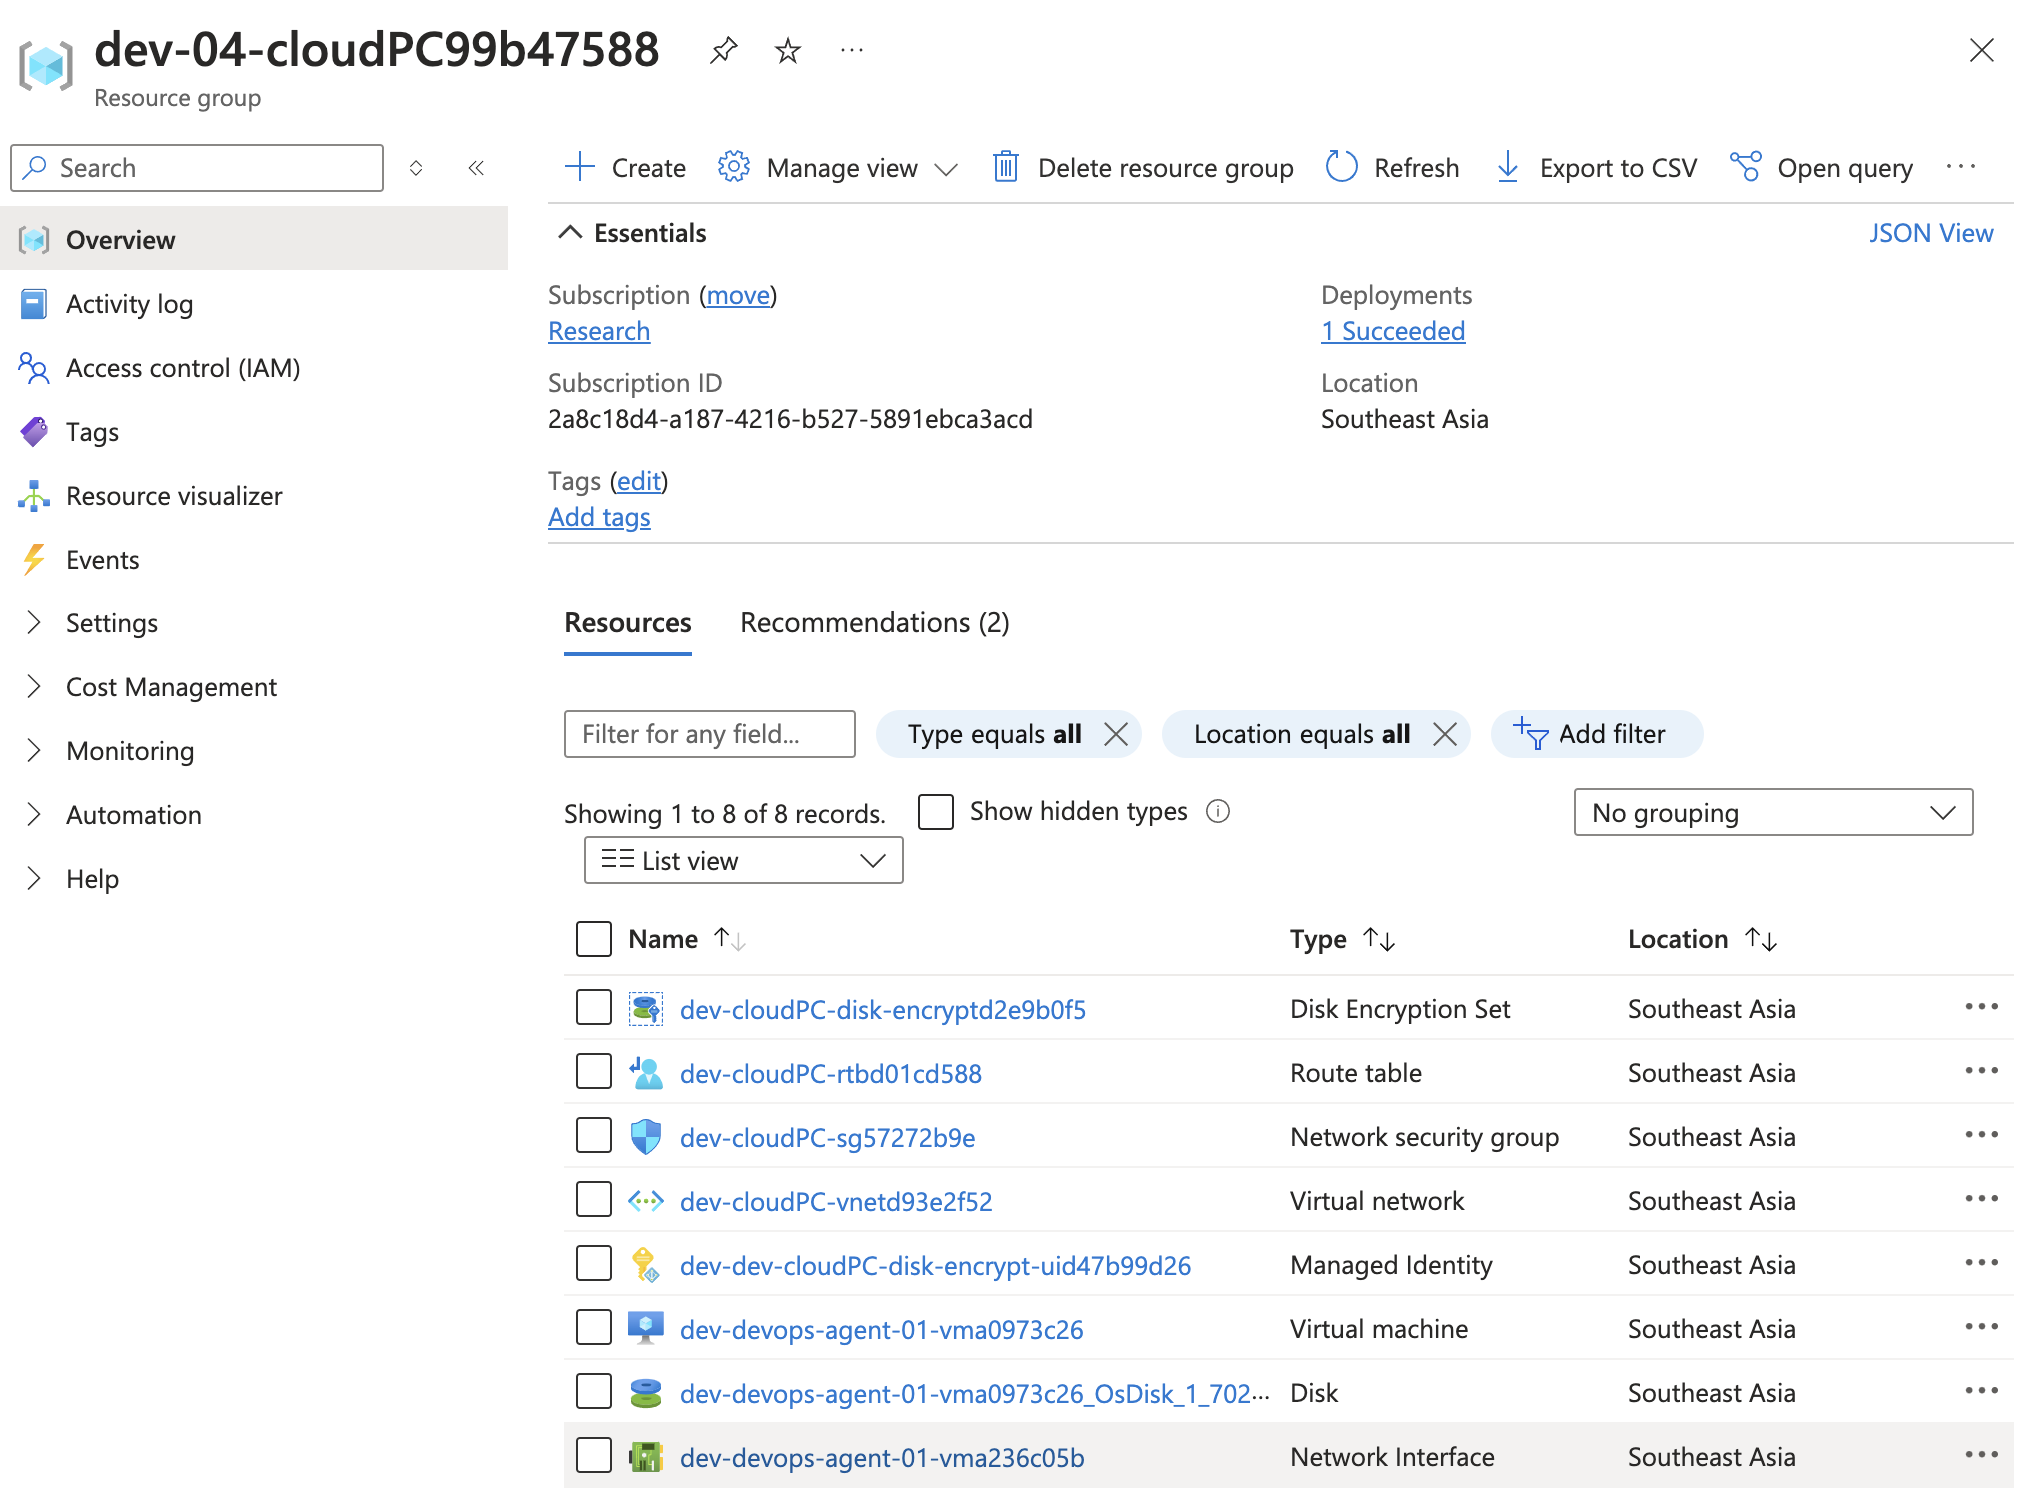
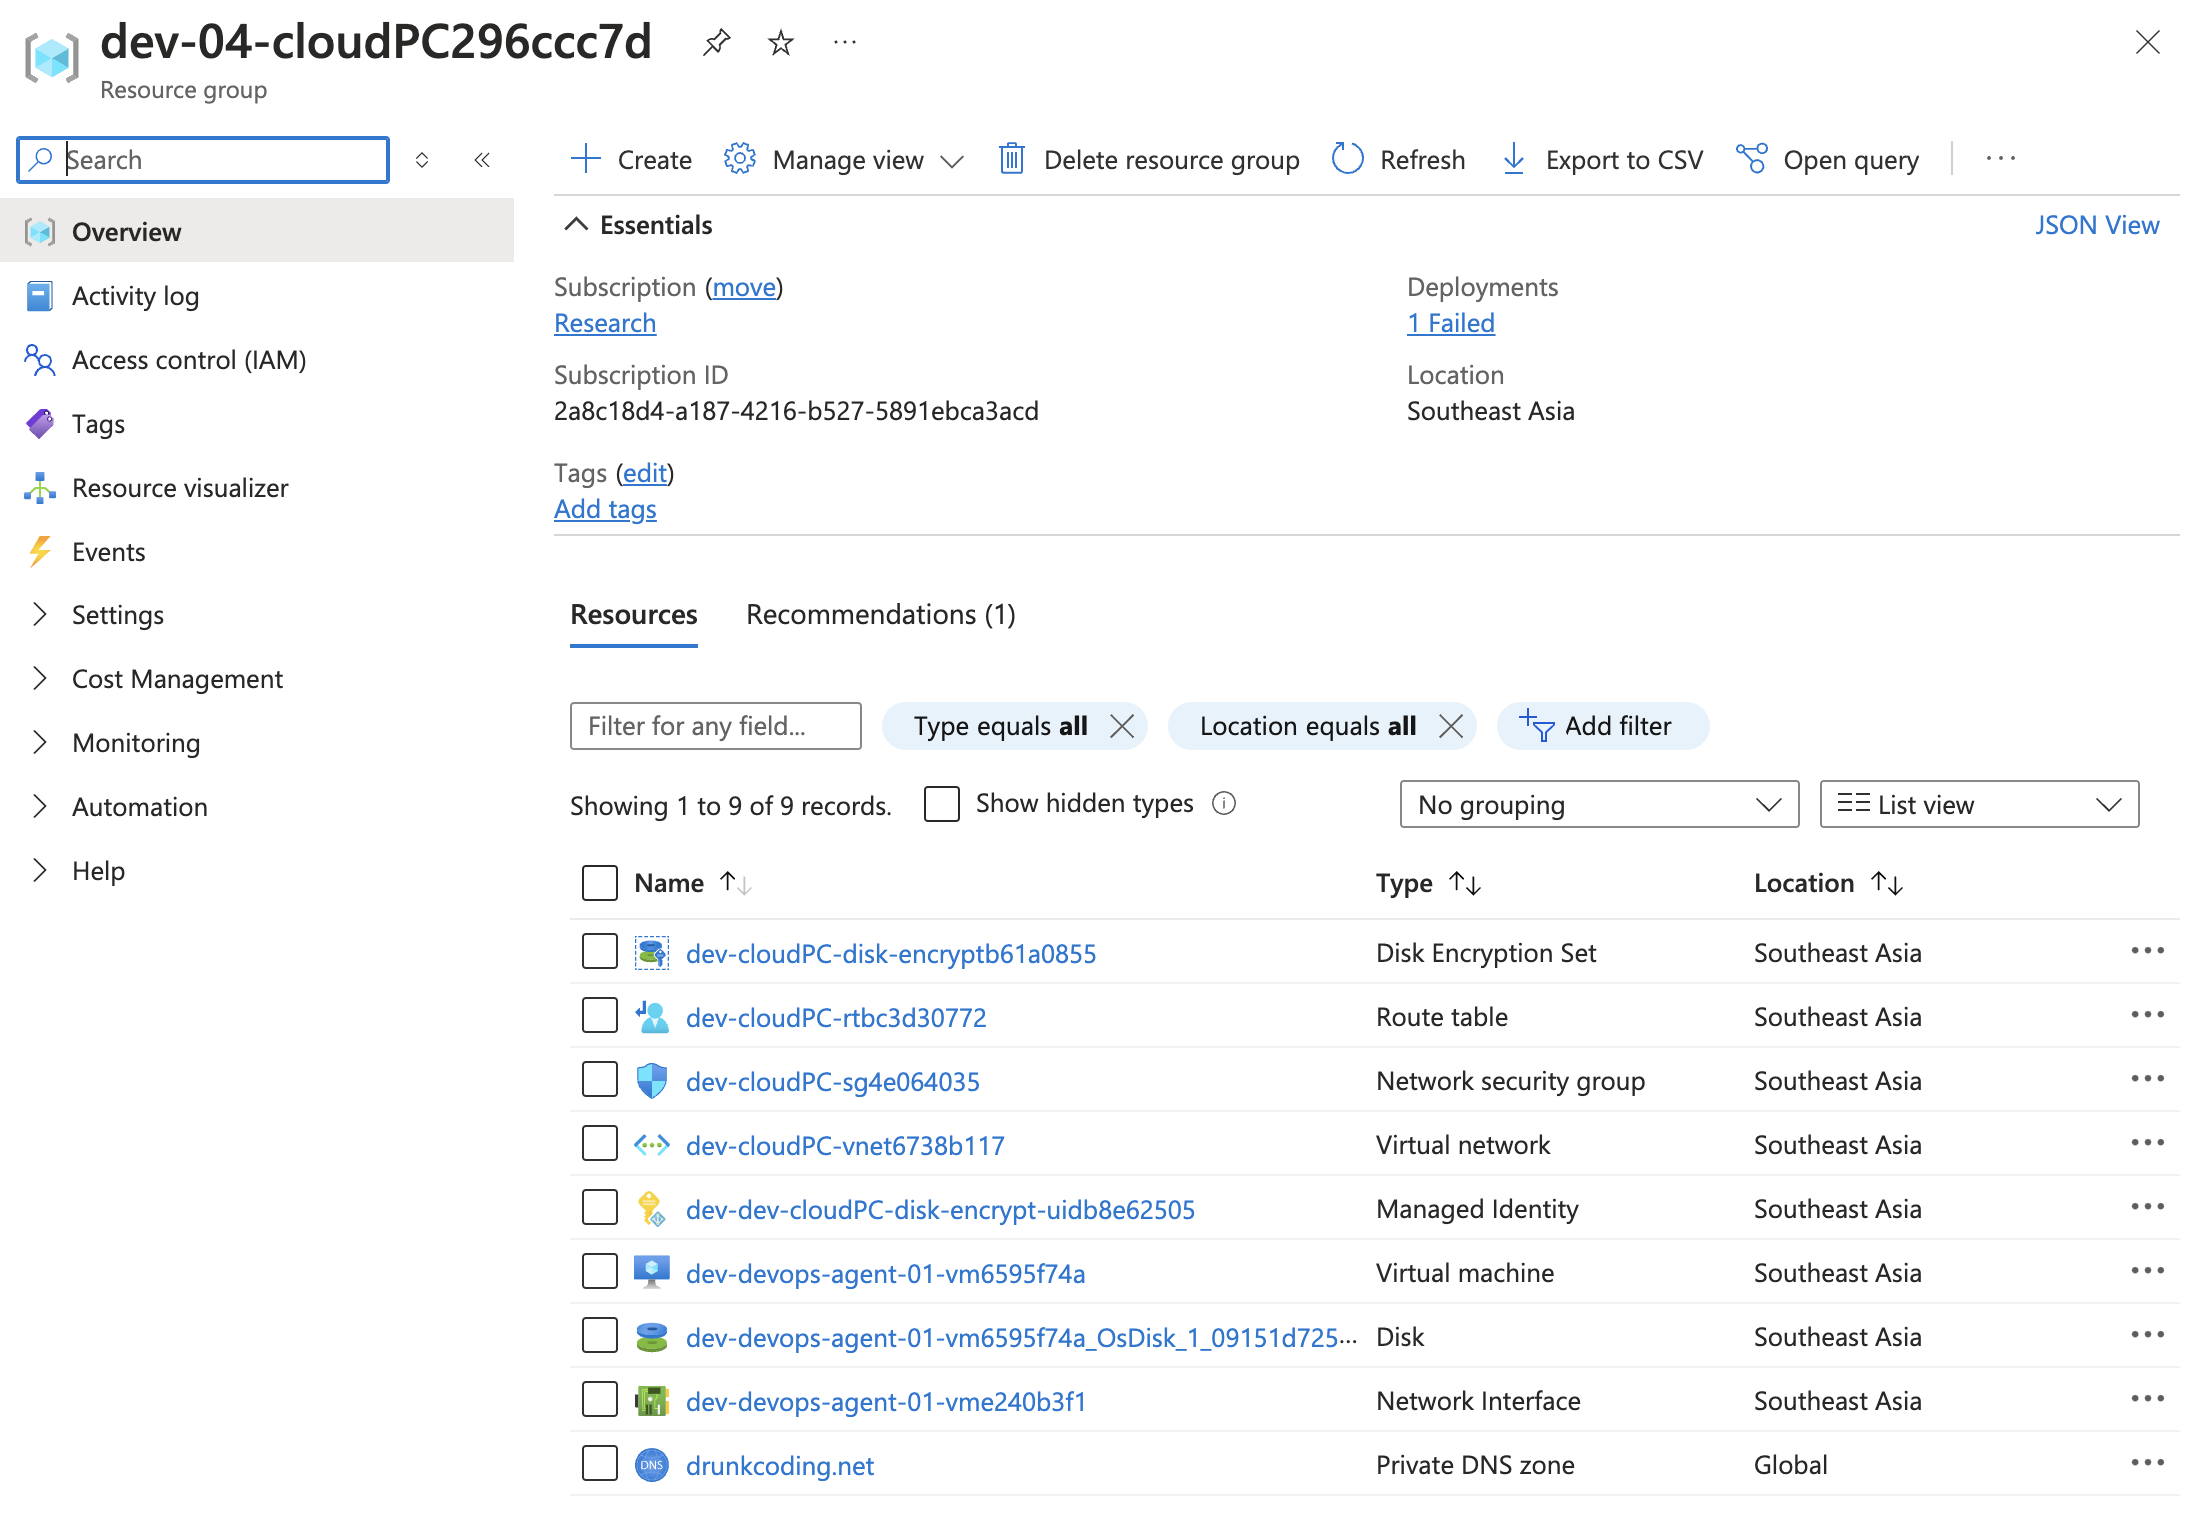
updated the article

diff --git a/src/content/blog/az-06-pulumi-private-aks-cloudpc-hub.md b/src/content/blog/az-06-pulumi-private-aks-cloudpc-hub.md
@@ -29,21 +29,19 @@ This guide will walk you through the process of setting up a private VNet using 
 
 This module defines the firewall policies for:
 
-- **CloudPC**: Grants all machines within the CloudPC subnet access to AKS, DevOps, and other Azure resources.
+- **CloudPC**: We adhere to the recommended network rules for [Windows 365 Enterprise](https://learn.microsoft.com/en-us/windows-365/enterprise/requirements-network?tabs=enterprise%2Cent). Additionally, we ensure that all machines within the CloudPC subnet have access to AKS, DevOps subnets, and other Azure resources.
   <details><summary><em>View code:</em></summary>
 
-  [inline](https://github.com/baoduy/drunk-azure-pulumi-articles/blob/main/az-04-cloudPC/CloudPcFirewallRules/cloudpcPolicyGroup.ts#1-29)
+  [inline](https://github.com/baoduy/drunk-azure-pulumi-articles/blob/main/az-04-cloudPC/CloudPcFirewallRules/cloudpcPolicyGroup.ts#1-85)
 
   </details>
 
-- **DevOps**: Permits all machines in the DevOps subnet to access all resources, including those on the internet.
+- **DevOps**: The current setup allows all machines in the DevOps subnet unrestricted access to all resources, including those on the internet. To improve security, it is recommended to restrict access to only necessary resources and implement more granular firewall rules.
   <details><summary><em>View code:</em></summary>
 
   [inline](https://github.com/baoduy/drunk-azure-pulumi-articles/blob/main/az-04-cloudPC/CloudPcFirewallRules/devopsPolicyGroup.ts#1-20)
 
   </details>
-
-> Caution: This rule poses a security risk as it allows DevOps agents extensive internet access. It is not advisable for production workloads and should be reviewed to restrict access to only necessary resources for the production environment.
 
 - **Index File**: Combines CloudPC and DevOps rules into a unified `FirewallPolicyRuleCollectionGroup`, linking them to the root policy established in the `az-02-hub-vnet` project.
   <details><summary><em>View code:</em></summary>
@@ -108,6 +106,20 @@ It connects the VM to a subnet within the virtual network and installs the **[Te
 
 </details>
 
+### The `PrivateDNS.ts` module
+
+To streamline internal network communication, we will configure a DNS resolver. Our NGINX will be deployed on AKS as a private ingress with an internal IP address of `192.168.31.250`, which must reside within the AKS subnet.
+
+To facilitate SSL certificate generation using [`Cert-Manager`](https://cert-manager.io/) on our AKS, we will utilize the Cloudflare domain `drunkcoding.net` for internal DNS communication.
+
+The private DNS will be linked to all VNETs in the environment, directing all DNS requests to the IP address `192.168.31.250`.
+
+<details><summary><em>View code:</em></summary>
+
+[inline](https://github.com/baoduy/drunk-azure-pulumi-articles/blob/main/az-04-cloudPC/PrivateDNS.ts#1-70)
+
+</details>
+
 ---
 
 ## Setting Up Private Azure DevOps Agents
@@ -152,15 +164,15 @@ Our goal is to create a private VNet for CloudPC and Azure DevOps agents using P
 
 ### Deploying the Stack
 
-To deploy the stack, run the `pnpm run up` command. This will provision all the necessary Azure resources, such as the Virtual Network (VNet), subnets, firewall, and private endpoints. Before executing the command, ensure you are logged into your Azure account using the Azure CLI and have configured Pulumi with the correct backend and credentials.
+- To deploy the stack, run the `pnpm run up` command. This will provision all the necessary Azure resources, such as the Virtual Network (VNet), subnets, firewall, and private endpoints. Before executing the command, ensure you are logged into your Azure account using the Azure CLI and have configured Pulumi with the correct backend and credentials.
 
-- Overview of the deployed Azure resources:
-  ![Azure-Resources](/assets/az-06-pulumi-private-aks-cloudpc-hub/az-04-cloudpc.png)
-  _Successfully deployed Azure resources._
+![Azure-Resources](/assets/az-06-pulumi-private-aks-cloudpc-hub/az-04-cloudpc.png)
+<p class="ml-44"><em>The deployed Azure resources</em></p>
 
-After the `TeamServicesAgentLinux` extension is installed, an agent should appear in Azure DevOps under the `cloud-agents` deployment group. This agent will be used in future projects to deploy Helm charts into the AKS cluster.
-![AzureDevOps-Agent](/assets/az-06-pulumi-private-aks-cloudpc-hub/private-ado-agent.png)
-_Overview of the private agent in Azure DevOps._
+- After the `TeamServicesAgentLinux` extension is installed, an agent should appear in Azure DevOps under the `cloud-agents` deployment group. This agent will be used in future projects to deploy Helm charts into the AKS cluster.
+
+<img alt="private-ado-agent" src="/assets/az-06-pulumi-private-aks-cloudpc-hub/private-ado-agent.png" width="500px">
+<p class="ml-44"><em>The private agent on Azure DevOps</em></p>
 
 ### Cleaning Up the Stack
 
@@ -174,12 +186,13 @@ To remove all associated Azure resources and clean up the stack, execute the `pn
 - [Firewall Policies and Rule Collection Groups](https://learn.microsoft.com/en-us/azure/firewall/policy-overview)
 - [Azure Bastion Configuration](https://learn.microsoft.com/en-us/azure/bastion/bastion-overview)
 - [TeamServicesAgentLinux Extension](https://learn.microsoft.com/en-us/azure/devops/pipelines/release/deployment-groups/howto-provision-deployment-group-agents?view=azure-devops)
+- [Network requirements For Windows 365 Enterprise](https://learn.microsoft.com/en-us/windows-365/enterprise/requirements-network?tabs=enterprise%2Cent)
 
 ---
 
 ## Next Steps
 
-**[Day 07: Setting Up a Deployment Pipeline for Pulumi Private AKS Environment on Azure.](/posts/az-07-pulumi-setup-deploy-cicd-pipeline)**
+**[Day 07: Setting Up a Deployment Pipeline for Pulumi Projects.](/posts/az-07-pulumi-setup-deploy-cicd-pipeline)**
 
 In the next tutorial, it will guides us through setting up a secure CloudPC and DevOps agent hub, aimed at improving the management and operational capabilities of your private AKS environment using Pulumi.
 

diff --git a/src/content/blog/az-07-pulumi-setup-deploy-cicd-pipeline.md b/src/content/blog/az-07-pulumi-setup-deploy-cicd-pipeline.md
@@ -1,7 +1,7 @@
 ---
 author: Steven Hoang
 pubDatetime: 2025-01-01T12:00:00Z
-title: "[Az] Day 07: Setting Up a Deployment Pipeline for Pulumi Private AKS Environment on Azure."
+title: "[Az] Day 07: Setting Up a Deployment Pipeline for Pulumi Projects."
 featured: false
 draft: false
 tags:
@@ -35,21 +35,22 @@ Ensure you have:
 ### Pulumi Variable Group
 
 Create a variable group in Azure DevOps **Libraries** named `pulumi`, including the Pulumi PAT token:
-<img src="/assets/az-07-pulumi-setup-deploy-cicd-pipeline/pulumi-variable-group.png" width="450px">
+<img alt="pulumi-variable-group" src="/assets/az-07-pulumi-setup-deploy-cicd-pipeline/pulumi-variable-group.png" width="450px">
 
 ### Setting Up Azure Resource Management Connection
 
 1. Navigate to **Service connections** in Azure DevOps and create a new connection named `az-pulumi` for **Azure Resource Management**:
-   <img src="/assets/az-07-pulumi-setup-deploy-cicd-pipeline/az-federation.png" width="450px">
+   <img alt="az-federation" src="/assets/az-07-pulumi-setup-deploy-cicd-pipeline/az-federation.png" width="450px">
 
    > Note: Specifying a resource group is optional. This can be used to restrict the connection's access to a specific resource group if needed.
 
-2. Once the service connection is established, verify its presence in the Azure Portal. Here are the details:
+2. Once the service connection is established, verify the app registration presence in the Azure Portal here:
    ![Azure-Connection-Details](/assets/az-07-pulumi-setup-deploy-cicd-pipeline/az-federation-details.png)
+   <p class="ml-44"><em>The app registration on Azure Portal</em></p>
 
-3. Grant the service connection `Owner` and `Key Vault Administrator` roles at the **subscription** level.
-   Additionally, configure the necessary Graph permissions to ensure it has sufficient privileges for complete deployment operations:
+3. Ensure the app registration has sufficient permissions to deploy all resources by assigning it the `Owner` and `Key Vault Administrator` roles at the **subscription** level. Additionally, configure the required Graph permissions to provide it with the necessary privileges for comprehensive deployment operations.
    ![api-permission](/assets/az-07-pulumi-setup-deploy-cicd-pipeline/az-app-permission.png)
+   <p class="ml-40"><em>The API permission of the app registration</em></p>
 
 ## Deployment Templates
 
@@ -99,28 +100,30 @@ Create a variable group in Azure DevOps **Libraries** named `pulumi`, including 
 
 ## Pulumi Deployment Pipeline
 
-To set up a deployment pipeline in Azure DevOps, use the `deploy.azure-pipelines.yml` file.
+To configure a deployment pipeline in Azure DevOps, utilize the `deploy.azure-pipelines.yml` file.
 
 ### YAML Configuration
 
-- **Trigger**: Automatically initiates on branches matching _releases/\*_.
-- **Agent Pool**: Utilizes the _ubuntu-latest_ agent pool.
-- **Variables**: Includes `pulumi`, `azureSubscription`, and `pnpm_config_cache`. The `env_name` is derived from the branch name.
+- **Trigger**: Automatically activates for branches that match the pattern _releases/\*_.
+- **Agent Pool**: Employs the _ubuntu-latest_ agent pool for execution.
+- **Variables**: Comprises `pulumi`, `azureSubscription`, and `pnpm_config_cache`. The `env_name` is dynamically generated from the branch name.
 
 ### Pipeline Stages
 
-1. **deploy_shared**: Deploys the `az-01-shared` module.
-2. **deploy_hub**: Deploys the `az-02-hub-vnet` module, following the completion of `deploy_shared`.
-3. **deploy_aks**: Deploys the `az-03-aks-cluster` module, subsequent to `deploy_hub`.
-4. **deploy_cloudpc**: Deploys the `az-04-cloudPC` module, after `deploy_hub`.
+1. **deploy_shared**: Initiates the deployment of the `az-01-shared` module.
+2. **deploy_hub**: Proceeds with deploying the `az-02-hub-vnet` module after `deploy_shared` is complete.
+3. **deploy_aks**: Continues with the deployment of the `az-03-aks-cluster` module, following `deploy_hub`.
+4. **deploy_cloudpc**: Finalizes with the deployment of the `az-04-cloudPC` module, subsequent to `deploy_hub`.
 
-Each stage utilizes the `build-and-deploy.yml` file with the necessary parameters.
+Each stage leverages the `build-and-deploy.yml` file, supplying the required parameters.
 
 <details><summary><em>View Code:</em></summary>
 
 [inline](https://github.com/baoduy/drunk-azure-pulumi-articles/blob/main/pipeline/deploy.azure-pipelines.yml#1-64)
 
 </details>
+
+To execute the pipeline, create a branch named `releases/dev` and initiate the run:
 
 ![deploy-pipeline-flow](/assets/az-07-pulumi-setup-deploy-cicd-pipeline/deploy-pipeline-flow.png)
 _Visualization of the Deployment Pipeline_

diff --git a/src/content/blog/az-00-pulumi-private-aks-environments.md b/src/content/blog/az-00-pulumi-private-aks-environments.md
@@ -64,7 +64,7 @@ _Overview of private AKS env._
 
 ## Azure DevOps Pipelines
 
-### [Day 07: Setting Up a Deployment Pipeline for Pulumi Private AKS Environment on Azure.](/posts/az-07-pulumi-setup-deploy-cicd-pipeline)
+### [Day 07: Setting Up a Deployment Pipeline for Pulumi Projects.](/posts/az-07-pulumi-setup-deploy-cicd-pipeline)
 
 In the next tutorial, it will guides us through setting up a secure CloudPC and DevOps agent hub, aimed at improving the management and operational capabilities of your private AKS environment using Pulumi.
 
